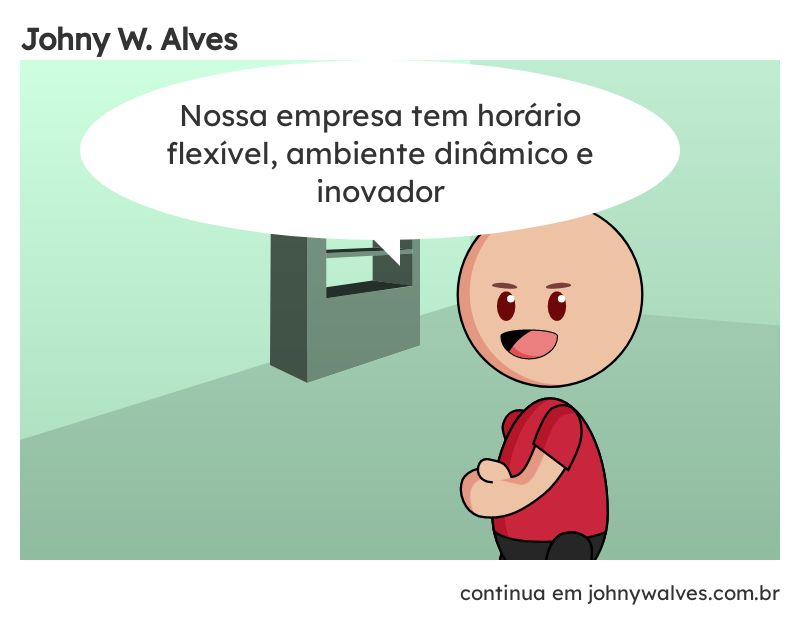
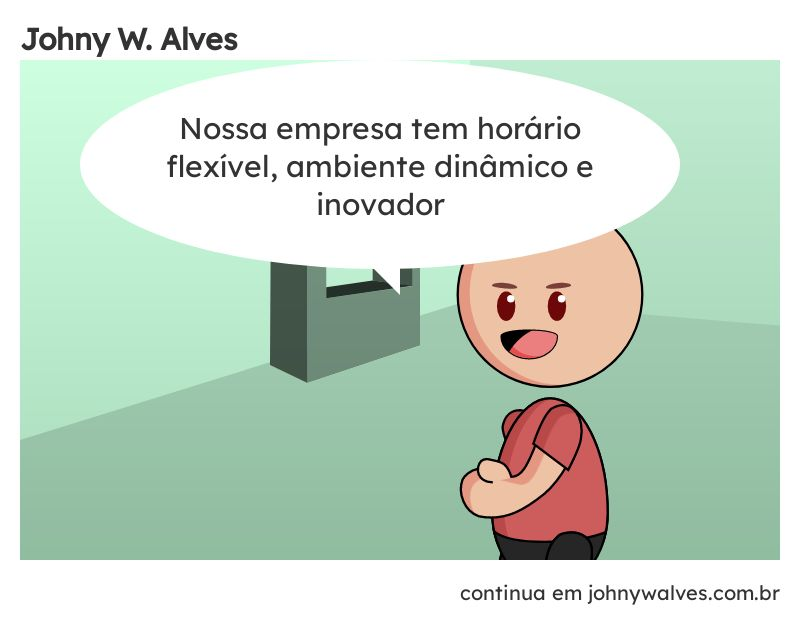
:bento: Atualizar thumbnail das tirinhas

diff --git a/posts/2022-03-08-Comic_17.md b/posts/2022-03-08-Comic_17.md
@@ -3,7 +3,7 @@ date: 2022-03-24 12:28:24 -0300
 title: Foco, Força e Fé
 category: Comic
 featuredImage: ./comics/0017.jpg
-coverImage: /comics/0017.jpg
+coverImage: /comics/0017-thumb.jpg
 number: 17
 transcription: Tirinha com título Foco, Força e Fé e conteúdo Quadro 1. Sophie e Msone conversando no escritório Msone fala "Gostaria de aproveitar esse dia da mulher para dizer como admiro seu trabalho e conhecimento técnico". Quadro 2. Sophie fala "Obrigado, você tem um futuro mais brilhante que o meu, só se dedicar aos estudos e projetos". Quadro 3. Msone fala "Calma! Admiração é uma coisa, estar disposta a alcançar os mesmos resultados é outra".
 tags:

diff --git a/posts/2022-04-01-Comic_18.md b/posts/2022-04-01-Comic_18.md
@@ -3,7 +3,7 @@ date: 2022-04-01 12:01:56 -0300
 title: Desenvolvimento Moderno
 category: Comic
 featuredImage: ./comics/0018.jpg
-coverImage: /comics/0018.jpg
+coverImage: /comics/0018-thumb.jpg
 number: 18
 transcription: Tirinha com título Desenvolvimento Moderno e conteúdo Quadro 1. Sophie e Afonso conversando no escritório Afonso fala "Aquele projeto grande que estavamos planejando, temos todos os passos para execução dele". Quadro 2. Sophie fala "Não seria melhor integrar o cliente no processo e ajustando com os retornos dos progressos?". Quadro 3. Afonso fala "Parece uma boa, mas vamos fazer do jeito mais tradicional, dá certo na engenheria civil".
 tags:

diff --git a/posts/2021-06-18-Comic_14.md b/posts/2021-06-18-Comic_14.md
@@ -3,7 +3,7 @@ date: 2021-06-18 18:27:36 -0300
 title: Belo Design
 category: Comic
 featuredImage: ./comics/0014.jpg
-coverImage: /comics/0014.jpg
+coverImage: /comics/0014-thumb.jpg
 number: 14
 transcription: Quadro 1. Rafiq na mesa desenhando Msone fala "Parabéns pela estética e inovação, mas nosso tempo é escasso vamos ter dificuldades para implementar isso". Quadro 2. Sophie entra na sala Sophie fala "Nossa! Estou ansiosa para trabalhar com algo tão belo e inovador". Quadro 3. Msone e Rafiq se olham em silêncio enquanto Sophie sai da sala. Quadro 4. Msone fala "Você sabe que vai sobrar para mim essa tarefa de qualquer maneira".
 tags:

diff --git a/posts/2020-11-26-Comic_11.md b/posts/2020-11-26-Comic_11.md
@@ -3,7 +3,7 @@ date: 2020-11-26 12:09:24 -0300
 title: Sintaxe
 category: Comic
 featuredImage: ./comics/0011.jpg
-coverImage: /comics/0011.jpg
+coverImage: /comics/0011-thumb.jpg
 number: 11
 transcription: Quadro 1 "Python". Afonso fala "Por que não está rodando?" Afonso fala "Desculpe, mas o código deve estar lindo para rodar". Quadro 2 "TypeScript". Afonso fala "Por que não está rodando?" Afonso fala "Foi mal, você não declarou todos os tipos que está usando". Quadro 3 "JavaScript". Afonso fala "Por que não está rodando?" Afonso fala "Rodando? Sempre! Só não garanto os resultados que você deseja".
 tags:

diff --git a/posts/2022-02-25-Comic_16.md b/posts/2022-02-25-Comic_16.md
@@ -3,7 +3,7 @@ date: 2022-02-25 20:32:42 -0300
 title: Vantagens
 category: Comic
 featuredImage: ./comics/0016.jpg
-coverImage: /comics/0016.jpg
+coverImage: /comics/0016-thumb.jpg
 number: 16
 transcription: Quadro 1. Afonso fala "Nossa empresa tem horário flexível, ambiente dinâmico e inovador". Quadro 2. Msone fala "Por favor leia como hora extra não remunerada, falta de planejamento e modelo de negócio tradicional". Quadro 3. Afonso fala "Temos café a vontade para ajudar na sua disposição e produtividade". Quadro 4. Msone fala "O que foi? É isso mesmo, não crítico café grátis.".
 tags:

diff --git a/posts/2022-05-06-Comic_19.md b/posts/2022-05-06-Comic_19.md
@@ -3,7 +3,7 @@ date: 2022-05-06 11:15:32 -0300
 title: Pausa para o café
 category: Comic
 featuredImage: ./comics/0019.jpg
-coverImage: /comics/0019.jpg
+coverImage: /comics/0019-thumb.jpg
 number: 19
 transcription: Tirinha com título Pausa para o café e conteúdo Quadro 1. Afonso e Msone conversando na cafeteria Afonso fala "Preciso falar com você sobre o projeto...". Quadro 2. Msone fala "Estou na pausa do café logo depois volto para a mesa e conversamos". Quadro 3. Afonso fala "Se você respondesse minhas mensagens de lá, não estava te procurando aqui".
 tags:

diff --git a/posts/2020-10-19-Comic_8.md b/posts/2020-10-19-Comic_8.md
@@ -3,7 +3,7 @@ date: 2020-10-19 13:43:08 -0300
 title: Dia do profissional de informática
 category: Comic
 featuredImage: ./comics/0008.jpg
-coverImage: /comics/0008.jpg
+coverImage: /comics/0008-thumb.jpg
 number: 8
 transcription: Quadro 1. Msone fala "Parabéns pelo dia do profissional de tecnologia da informação! Para as pessoas dedicadas a facilitar, automatizar e otimizar as nossas rotinas garantindo um futuro melhor". Quadro 2. Msone fala "e também para o profissional do diminutivo, com seus programinhas, paginazinhas, rotinazinhas, prazinhos...".
 tags:

diff --git a/posts/2022-06-16-Comic_21.md b/posts/2022-06-16-Comic_21.md
@@ -3,7 +3,7 @@ date: 2022-06-16 07:35:02 -0300
 title: Tentação
 category: Comic
 featuredImage: ./comics/0021.jpg
-coverImage: /comics/0021.jpg
+coverImage: /comics/0021-thumb.jpg
 number: 21
 transcription: Tirinha com título Tentação e conteúdo Quadro 1. Msone pensando sozinha Msone pensa "Preciso decidir como melhorar esse código..." Msone (Lado mal) fala "Deixa ele assim, você refatora depois". Quadro 2.. Quadro 3.. Quadro 4. Sol fala "Cadê a pessoa que dá bons conselhos?" Msone (Lado mal) fala "Você realmente acredita na existência dela?".
 tags:

diff --git a/posts/2022-09-13-Comic_24.md b/posts/2022-09-13-Comic_24.md
@@ -3,7 +3,7 @@ date: 2022-09-13 08:59:23 -0300
 title: Felicitações
 category: Comic
 featuredImage: ./comics/0024.jpg
-coverImage: /comics/0024.jpg
+coverImage: /comics/0024-thumb.jpg
 number: 24
 transcription: Tirinha com título Felicitações e conteúdo Quadro 1. Afonso fala "Felicitações para o dia dos desenvolvedores! Por que é hoje? Data de morte de alguém?" Sophie fala "É o dia 256 do ano! A maior elevação de 2 possível". Quadro 2. Msone fala "É numerologia e astrologia? Não sabia que eram supersticiosas!".
 tags:

diff --git a/posts/2021-12-03-Comic_15.md b/posts/2021-12-03-Comic_15.md
@@ -3,7 +3,7 @@ date: 2021-12-03 10:58:42 -0300
 title: Hype
 category: Comic
 featuredImage: ./comics/0015.jpg
-coverImage: /comics/0015.jpg
+coverImage: /comics/0015-thumb.jpg
 number: 15
 transcription: Quadro 1. Sophie e Afonso conversando no escritório Afonso fala "...então vamos colocar NFT nesse projeto.". Quadro 2. Sophie fala "Desculpe, mas não entendi o motivo, temos um servidor centralizando as operações". Quadro 3. Afonso fala "Nem sei o que é NFT. Só vamos colocar por que vende melhor.".
 tags:

diff --git a/posts/2020-10-18-Comic_7.md b/posts/2020-10-18-Comic_7.md
@@ -3,7 +3,7 @@ date: 2020-10-18 10:10:24 -0300
 title: Sonho de infância
 category: Comic
 featuredImage: ./comics/0007.jpg
-coverImage: /comics/0007.jpg
+coverImage: /comics/0007-thumb.jpg
 number: 7
 transcription: Quadro 1. Sophie fala "Por que você escolheu a área de desenvolvimento?" Msone fala "Sonho de infância, para desenvolver video game". Quadro 2. Sophie fala "Mas você trabalha o dia todo desenvolvendo soluções corporativas". Quadro 3. Msone fala "Essa é a parte do sonho de infância".
 tags:

diff --git a/posts/2022-09-09-Comic_23.md b/posts/2022-09-09-Comic_23.md
@@ -3,7 +3,7 @@ date: 2022-09-09 12:03:15 -0300
 title: Apresentação
 category: Comic
 featuredImage: ./comics/0023.jpg
-coverImage: /comics/0023.jpg
+coverImage: /comics/0023-thumb.jpg
 number: 23
 transcription: Tirinha com título Apresentação e conteúdo Quadro 1. Msone fala "Olá! Quem é você?" Johny fala "Sou o criador dessas tirinhas". Quadro 2. Msone fala "Isso faz de você... meu pai ou nosso deus?". Quadro 3. Johny fala "Isso faz de mim um desenvolvedor curioso e com tempo de sobra".
 tags:
